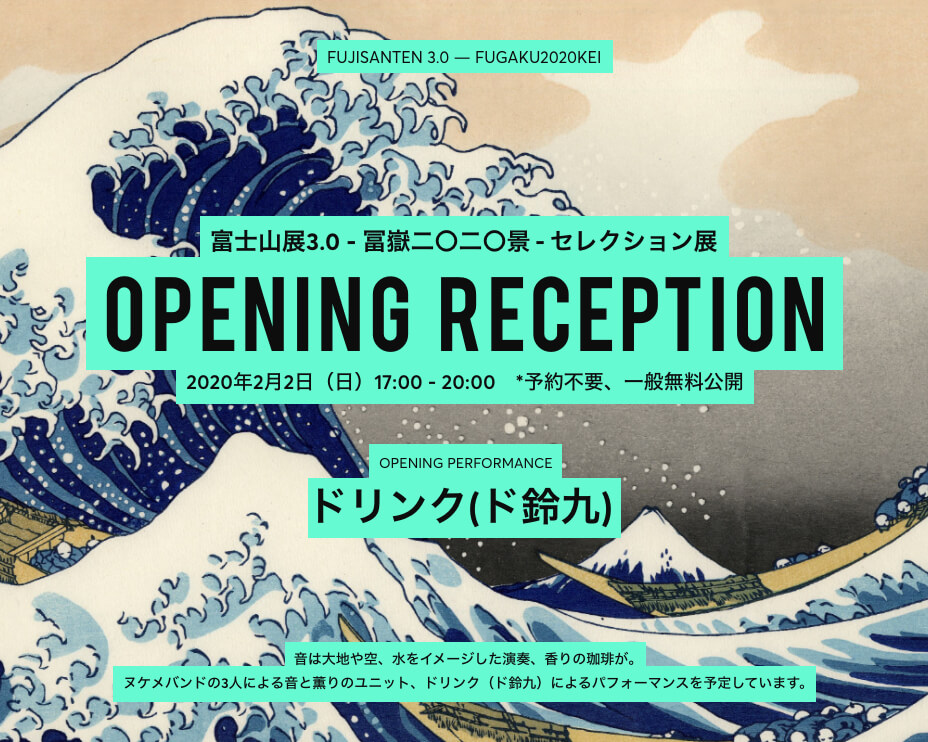
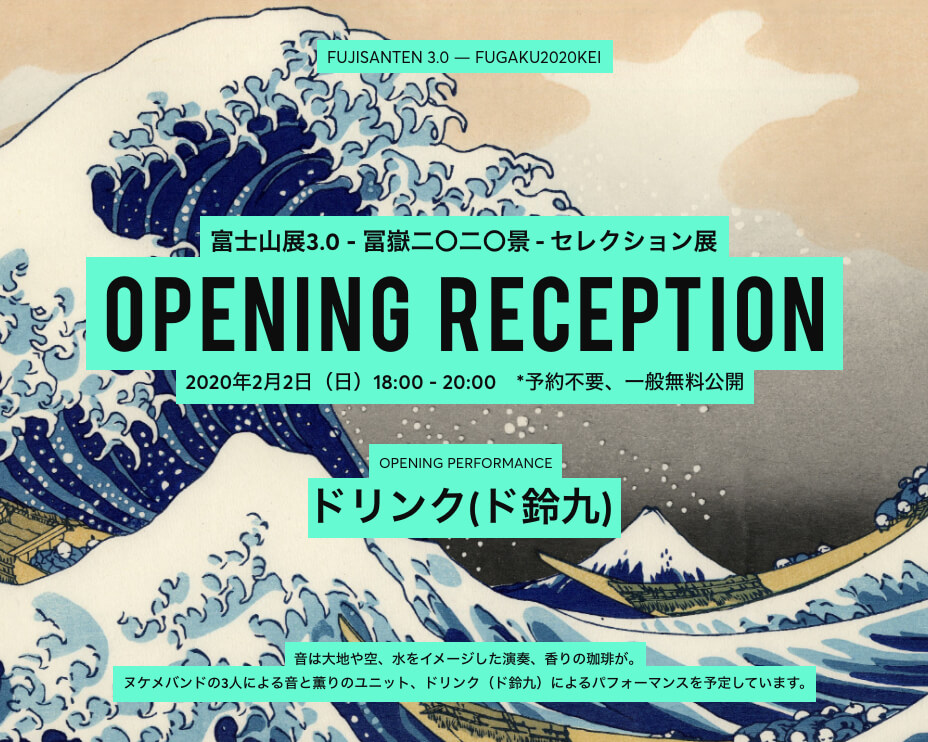
add news and change op time

Changed region(s): [[0.1875, 0.496, 0.5312, 0.527], [0.6875, 0.496, 0.8125, 0.527], [0.5625, 0.496, 0.6562, 0.527]]

diff --git a/index.html b/index.html
@@ -1191,9 +1191,7 @@
           </p>
         </li>
       </ul>
-  
       <dl class="section__selection--artist">
-
         <div>
           <dt class="section__bgblue">■ オープニングレセプション</dt>
           <dd class="section__bgblue">会場 ：T-ART HALL (東京都品川区東品川２−６−１０)</dd>
@@ -1202,8 +1200,7 @@
           </div>
           <div>
           <dt class="js-bg">イベント:</dt>
-          <br>
-          <dd class="section__bgblue">２月２日（日）１７：００ - ２０：００ オープニングレセプション（入場自由）</dd>
+          <dd class="section__bgblue">２月２日（日）１８：００ - ２０：００ オープニングレセプション（入場自由）</dd>
           <dd class="section__bgblue">２月８日（土）１４：００ - １６：００ トークイベント 田村正資 x 施井泰平</dd>
           <dd class="js-bg">入場料 ：無料</dd>
           </dd>
@@ -1302,7 +1299,7 @@
             <p class="section__selection--list3-txt">デジタルアートのプラットフォーム「NEORT」が選出した作品を高画質で鑑賞する8Kプロジェクタールーム</p>
             <dl class="section__selection--list3-artist">
               <dt>出展作家</dt>
-              <dd>おかず、久保田哲也、ツミキルーム、釣部東京、Almina、°F / efu</dd>
+              <dd>おかず、久保田哲也、ツミキルーム、釣部東京、Almina、°F / efu、Ayumu Nagamatsu</dd>
             </dl>
           </div>
         </li>
@@ -1412,6 +1409,22 @@
       <ul class="section__news--list">
 
         <li>
+          <a href="https://neort.io/tag/bnrfr943p9fb5s72q360" target="_blank">
+            <div class="section__news--list-time">
+              <p class="js-bg section__news--tag">news</p>
+              <time class="js-bg" datetime="2019-12-20">2020/1/27</time>
+            </div>
+            <div class="section__news--list-txt">
+              <h3 class="js-bg">富士山展×NEORT 最優秀作品発表！</h3>
+              <p class="js-bg">最優秀作品とノミネート作品が出揃いましたので、展示イベントにさきがけてご紹介します。
+              なお、すべての作品はこちらからチェックできます。</p>
+            <p class="js-bg">https://neort.io/tag/bnrfr943p9fb5s72q360</p>
+              <p class="js-bg">最優秀作品　Ukiyo (Ayumu Nagamatsu)　は、セレクション展イベント会場にて8Kプロジェクターによって表示されます。</p>
+            </div>
+          </a>
+        </li>
+
+        <li>
           <a>
             <div class="section__news--list-time">
               <p class="js-bg section__news--tag">news</p>
@@ -1423,6 +1436,7 @@
             </div>
           </a>
         </li>
+
 
         <li>
           <a href="https://neort.io/tag/bnrfr943p9fb5s72q360" target="_blank">
@@ -1436,19 +1450,6 @@
                 投稿された作品の中からいくつかの優れた作品が、セレクション展で展示されるキャンペーンを行ないます。</p>
               <p class="js-bg">募集期間は2020年1月19日までです。詳しくは募集要項をチェックしましょう。</p>
               <p class="js-bg">https://neort.io/tag/bnrfr943p9fb5s72q360</p>
-            </div>
-          </a>
-        </li>
-
-        <li>
-          <a>
-            <div class="section__news--list-time">
-              <p class="js-bg section__news--tag">news</p>
-              <time class="js-bg" datetime="2019-12-12">2019/12/12</time>
-            </div>
-            <div class="section__news--list-txt">
-              <h3 class="js-bg">参加スペースが３件追加されました！</h3>
-              <p class="js-bg">神奈川県：米神ミヅカブラ、東京：MARUMASU GINZA (マルマス銀座店)、銀座柳画廊</p>
             </div>
           </a>
         </li>
@@ -1474,7 +1475,7 @@
               </div>
               <div class="section__event--list-text">
                 <p>
-                日時：2020年2月2日（日）17:00 - 20:00　*予約不要、一般無料公開<br>
+                日時：2020年2月2日（日）18:00 - 20:00　*予約不要、一般無料公開<br>
                 出展作家や公式ピッカーなど様々な方と交流できる機会となります。
                 音と薫りのユニット、ドリンク（ド鈴九）によるパフォーマンス
                 </p>
@@ -1495,19 +1496,6 @@
                   日時：2月8日（土）14:00 - 16:00
                   入場無料
                 </p>
-              </div>
-            </div>
-          </a>
-        </li>
-        <li>
-          <a href="https://fujisanten-engawa.peatix.com/" target="_blank">
-            <img src="../images/event/event-200107.jpg" width="200" height="140">
-            <div class="section__event--list-inr">
-              <div class="section__event--list-title">
-                <h3>アートの担い手を京都からどう育てていくか。京都から日本のアートシーンのこれからを考える。〜富士山展3.0スペシャルトークイベント〜開催決定！</h3>
-              </div>
-              <div class="section__event--list-text">
-                <p>京都のアートシーンを盛り上げる仕掛け人である椿昇（京都造形芸術大学教授）氏、京都の多様性を人材育成面から牽引するウスビ・サコ（京都精華大学学長）氏、アートとブロックチェーンで新たなインフラを作る施井泰平（スタートバーン株式会社代表取締役）氏に招き、京都のアートシーンは今後どのように発展していくのか、またテクノロジーによって、アートに関わる人にどんな影響が起きていくのか等をテーマに、年明けの京都からこれからの日本のアートシーンを考えます。</p>
               </div>
             </div>
           </a>

diff --git a/event/20200202.html b/event/20200202.html
@@ -774,9 +774,9 @@
       <h2 class="article__title">オープニングレセプション</h2>
       <div class="article__image"><img src="../images/event/event_20200202.jpg" alt=""></div>
 
-      <p>日時：2020年2月2日（日）17:00 - 20:00　*予約不要、一般無料公開</p>
+      <p>日時：2020年2月2日（日）18:00 - 20:00　*予約不要、一般無料公開</p>
       <p>出展作家や公式ピッカーなど様々な方と交流できる機会となります。
-      ヌケメバンドの3人による音と薫りのユニット、ドリンク（ド鈴九）によるパフォーマンスを予定しています。</p>
+      オープニングアクトとして、ヌケメバンドの3人による音と薫りのユニット、ドリンク（ド鈴九）によるパフォーマンスを予定しています。</p>
       <p>▪ドリンク（ド鈴九）<br>
       音は大地や空、水をイメージした演奏、香りの珈琲が。ヌケメバンドの3人による音と薫りのユニット。<br>
       ドリタ　スライムシンセ<br>
@@ -787,10 +787,6 @@
 
     </div>
   </article>
-
- 
-
-
 
 </main>
 </body>

diff --git a/news-press/index.html b/news-press/index.html
@@ -774,6 +774,23 @@
     </ul>
 
     <ul class="section__news--list">
+
+        <li>
+          <a href="https://neort.io/tag/bnrfr943p9fb5s72q360" target="_blank">
+            <div class="section__news--list-time">
+              <p class="js-bg section__news--tag">news</p>
+              <time class="js-bg" datetime="2019-12-20">2020/1/27</time>
+            </div>
+            <div class="section__news--list-txt">
+              <h3 class="js-bg">富士山展×NEORT 最優秀作品発表！</h3>
+              <p class="js-bg">最優秀作品とノミネート作品が出揃いましたので、展示イベントにさきがけてご紹介します。
+                なお、すべての作品はこちらからチェックできます。</p>
+              <p class="js-bg">https://neort.io/tag/bnrfr943p9fb5s72q360</p>
+              <p class="js-bg">最優秀作品　Ukiyo (Ayumu Nagamatsu)　は、セレクション展イベント会場にて8Kプロジェクターによって表示されます。</p>
+            </div>
+          </a>
+        </li>
+
         <li>
           <a>
             <div class="section__news--list-time">

diff --git a/event/index.html b/event/index.html
@@ -788,7 +788,7 @@
         
               <div class="section__event--list-text">
                 <p>
-                日時：2020年2月2日（日）17:00 - 20:00　*予約不要、一般無料公開<br>
+                日時：2020年2月2日（日）18:00 - 20:00　*予約不要、一般無料公開<br>
                 出展作家や公式ピッカーなど様々な方と交流できる機会となります。
                 音と薫りのユニット、ドリンク（ド鈴九）によるパフォーマンス
                 </p>
